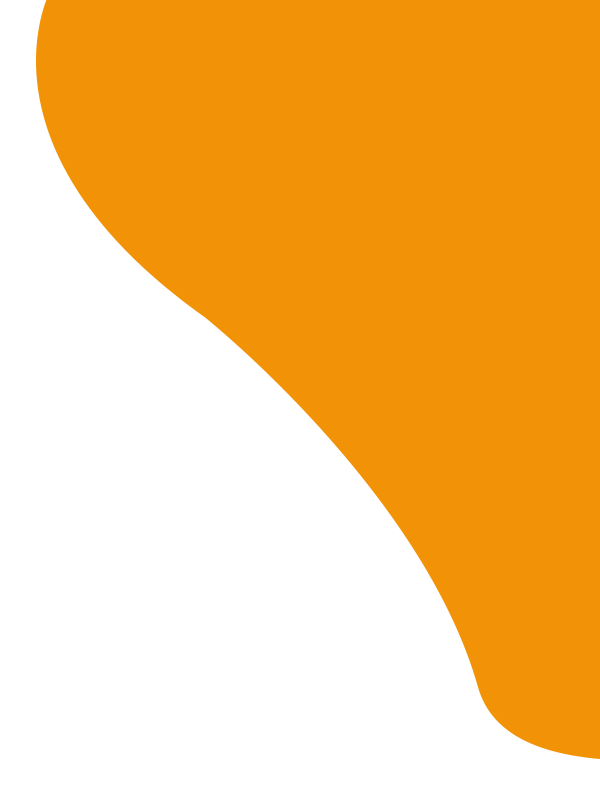
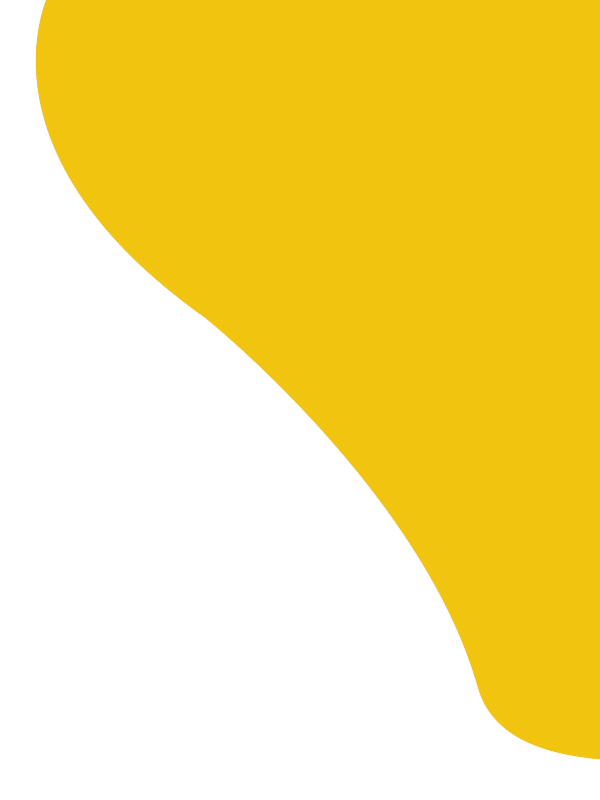
update

diff --git a/daca/fast-food-website-template/assets/css/style.css b/daca/fast-food-website-template/assets/css/style.css
@@ -118,7 +118,7 @@ header {
             border-radius: 1.875rem; }
             @media screen and (max-width: 768px) {
               header .main-nav .my-nav .menu ul li:nth-child(7) {
-                background-color: #ff9106;
+                background-color: #f1c40f;
                 border-radius: 1.25rem; } }
           @media screen and (max-width: 767.98px) {
             header .main-nav .my-nav .menu ul li {
@@ -137,7 +137,7 @@ header {
   header .sub-main-nav .my-nav .menu ul li:last-child a {
     color: #483f3f; }
   header .sub-main-nav .my-nav .menu ul li a {
-    color: #ff9106; }
+    color: #f1c40f; }
   header .menu-toggle {
     height: 40px;
     width: 40px;
@@ -148,7 +148,7 @@ header {
     position: absolute;
     right: 10px;
     top: 20px;
-    color: #ff9106;
+    color: #f1c40f;
     display: flex;
     align-items: center;
     justify-content: center;
@@ -177,7 +177,7 @@ header {
   position: relative;
   padding: 0; }
   .carousel-indicators .active {
-    background-color: #f29307;
+    background-color: #f1c40f;
   }
   .carousel-indicators li {
     background-color: rgb(255 217 162);
@@ -238,7 +238,7 @@ header {
           display: inline-block;
           width: fit-content;
           padding: .625rem 1.125rem;
-          background: #ff9106;
+          background: #f1c40f;
           border-radius: 1.875rem;
           color: #fff;
           font-size: 1.125rem;
@@ -267,7 +267,7 @@ header {
       margin: 0 auto;
       width: 3.75rem;
       height: 3.75rem;
-      background: #ff9106;
+      background: #f1c40f;
       transition: all ease-in-out .5s;
       border-radius: 3.125rem; }
       .bg-01 .wrapper .content .icon span {
@@ -326,7 +326,7 @@ header {
   margin: 1.25rem 0;
   position: relative; }
   .bg-02 .content span {
-    color: #ff9106;
+    color: #f1c40f;
     font-size: 1rem;
     text-transform: capitalize;
     margin: .3125rem 0;
@@ -351,7 +351,7 @@ header {
       display: inline-block;
       margin: 1.25rem 0;
       position: relative;
-      background: #ff9106;
+      background: #f1c40f;
       padding: .625rem 1.125rem;
       text-align: center;
       font-size: 1rem;
@@ -401,7 +401,7 @@ header {
   position: relative; }
   .bg-03 .heading span {
     display: block;
-    color: #ff9106; }
+    color: #f1c40f; }
   .bg-03 .heading h2 {
     text-transform: capitalize;
     font-size: 1.875rem;
@@ -432,7 +432,7 @@ header {
       .bg-03 .wrapper .content .icons span::before {
         font-size: 3.125rem;
         font-weight: 600;
-        color: #ff9106; }
+        color: #f1c40f; }
     .bg-03 .wrapper .content h3 {
       font-size: 1.25rem;
       color: #483f3f;
@@ -451,7 +451,7 @@ header {
   position: relative; }
   .heading span {
     display: block;
-    color: #ff9106; }
+    color: #f1c40f; }
   .heading h2 {
     text-transform: capitalize;
     font-size: 1.875rem;
@@ -499,7 +499,7 @@ header {
         margin: 0 0 .3125rem 0; }
         .bg-04 .wrapper .tab-content .sentence h3 span {
           font-weight: 600;
-          color: #ff9106; }
+          color: #f1c40f; }
       .bg-04 .wrapper .tab-content .sentence h6 {
         display: inline-block;
         font-size: .9375rem;
@@ -518,7 +518,7 @@ header {
       .bg-04 .wrapper .tab-content .rate-box ol li {
         display: inline-block;
         margin: .3125rem;
-        color: #ff9106; }
+        color: #f1c40f; }
       .bg-04 .wrapper .tab-content .rate-box .plus {
         position: relative;
         display: block; }
@@ -528,7 +528,7 @@ header {
           display: flex;
           align-items: center;
           justify-content: center;
-          background: #ff9106;
+          background: #f1c40f;
           color: #fff;
           cursor: pointer;
           border-top-left-radius: 1.25rem; }
@@ -662,7 +662,7 @@ header {
           transition: 0.6s;
           height: 2.5rem;
           width: 2.5rem;
-          background: #ff9106;
+          background: #f1c40f;
           line-height: 2.5rem;
           text-align: center;
           padding: 0rem;
@@ -670,7 +670,7 @@ header {
           font-size: 1rem;
           margin-right: .3125rem; }
           .bg-05 .main-team-card .team-setup .team-items .team-user-social ol li:hover {
-            color: #ff9106;
+            color: #f1c40f;
             transform: translateX(-0.3125rem); }
             .bg-05 .main-team-card .team-setup .team-items .team-user-social ol li:hover i {
               color: #fff; }
@@ -712,7 +712,7 @@ header {
         margin: 5px 0px; }
         .bg-06 .blog-main-card .blog-sub .blog-content-section .blog-admin ol li {
           display: inline-block;
-          color: #ff9106;
+          color: #f1c40f;
           font-size: 15px;
           margin: 0 5px 0 0; }
           .bg-06 .blog-main-card .blog-sub .blog-content-section .blog-admin ol li i {
@@ -784,7 +784,7 @@ header {
         border-radius: 0;
         margin-bottom: .625rem; }
       .contact-wrapper .wrapper form .form-group a {
-        background: #ff9106;
+        background: #f1c40f;
         display: block;
         padding: .625rem;
         text-align: center;
@@ -815,7 +815,7 @@ footer {
     color: #84878a;
     text-align: center; }
     footer .copy-right p a {
-      color: #ff9106;
+      color: #f1c40f;
       padding-left: 10px;
       font-weight: bold; }
   footer .footer-content {
@@ -833,7 +833,7 @@ footer {
       display: inline-block;
       height: 2.5rem;
       width: 2.5rem;
-      background: #ff9106;
+      background: #f1c40f;
       color: #fff;
       line-height: 2.5rem;
       text-align: center;
@@ -847,7 +847,7 @@ footer {
         font-size: 16px; }
         footer .footer-content ol li a i {
           padding-right: 10px;
-          color: #ff9106; }
+          color: #f1c40f; }
           footer .footer-content ol li a i::before {
             font-size: .9375rem; }
     footer .footer-content h2 {
@@ -868,7 +868,7 @@ footer {
         width: 40px;
         line-height: 40px;
         color: #fff;
-        background: #ff9106;
+        background: #f1c40f;
         text-align: center;
         top: 0;
         right: 0; }
@@ -906,7 +906,7 @@ footer {
           .bg-0-b .main-card-contact .sup-card-contact .contact-title h2::before {
             position: absolute;
             content: "";
-            background: #ff9106;
+            background: #f1c40f;
             width: 100%;
             height: 3px;
             bottom: 0; }
@@ -917,7 +917,7 @@ footer {
           font-size: 16px;
           font-weight: 600; }
           .bg-0-b .main-card-contact .sup-card-contact .contact-title ol li i {
-            color: #ff9106;
+            color: #f1c40f;
             padding-right: 15px; }
       .bg-0-b .main-card-contact .sup-card-contact .head-content {
         position: relative;
@@ -932,7 +932,7 @@ footer {
           .bg-0-b .main-card-contact .sup-card-contact .head-content h2::before {
             position: absolute;
             content: "";
-            background: #ff9106;
+            background: #f1c40f;
             width: 100%;
             height: 3px;
             bottom: 0; }
@@ -971,7 +971,7 @@ footer {
               top: 0px;
               height: 45px;
               width: 45px;
-              background: #ff9106;
+              background: #f1c40f;
               text-align: center;
               line-height: 45px;
               color: #fff;
@@ -984,7 +984,7 @@ footer {
                 position: relative;
                 top: 4px;
                 left: 5px;
-                color: #ff9106; }
+                color: #f1c40f; }
           .bg-0-b .main-card-contact .sup-card-contact-0a .dived .form-group .form-control {
             padding: 10px 15px;
             margin: 30px 0px;
@@ -993,7 +993,7 @@ footer {
 
 .abt-01 {
   padding: 3.125rem 0;
-  background: #ff9106;
+  background: #f1c40f;
   position: relative;
   overflow: hidden;
   z-index: 9; }

diff --git a/daca/fast-food-website-template/index.html b/daca/fast-food-website-template/index.html
@@ -28,7 +28,7 @@
                                 <ul>
                                     <li><a href="#about-us">Sobre Nós</a></li>
                                     <li><a href="#our-menu">Cardápio</a></li>
-                                    <li><a href="#">Peça Já</a></li>
+                                    <li><a href="https://api.whatsapp.com/send?phone=351934178162&text=%20Ol%C3%A1%20Daca%20Food!%20Cliquei%20no%20link%20do%20site." target="_blank">Peça Já</a></li>
                                 </ul>
                             </div>
                         </div>
@@ -66,7 +66,7 @@
                                                     incidunt iste, architecto voluptate amet veniam 
                                                     odio, reiciendis modi</h5>
                                                     <ol>
-                                                        <li><a href="#">Pedir Agora<span class="flaticon-right-arrow"></span></a></li>
+                                                        <li><a href="https://api.whatsapp.com/send?phone=351934178162&text=%20Ol%C3%A1%20Daca%20Food!%20Cliquei%20no%20link%20do%20site." target="_blank">Pedir Agora<span class="flaticon-right-arrow"></span></a></li>
                                                     </ol>
                                                 </div>
                                             </div>
@@ -92,7 +92,7 @@
                                                     incidunt iste, architecto voluptate amet veniam 
                                                     odio, reiciendis modi</h5>
                                                     <ol>
-                                                        <li><a href="#">Pedir Agora<span class="flaticon-right-arrow"></span></a></li>
+                                                        <li><a href="https://api.whatsapp.com/send?phone=351934178162&text=%20Ol%C3%A1%20Daca%20Food!%20Cliquei%20no%20link%20do%20site." target="_blank">Pedir Agora<span class="flaticon-right-arrow"></span></a></li>
                                                     </ol>
                                                 </div>
                                             </div>
@@ -118,7 +118,7 @@
                                                     incidunt iste, architecto voluptate amet veniam 
                                                     odio, reiciendis modi</h5>
                                                     <ol>
-                                                        <li><a href="#">Pedir Agora<span class="flaticon-right-arrow"></span></a></li>
+                                                        <li><a href="https://api.whatsapp.com/send?phone=351934178162&text=%20Ol%C3%A1%20Daca%20Food!%20Cliquei%20no%20link%20do%20site." target="_blank">Pedir Agora<span class="flaticon-right-arrow"></span></a></li>
                                                     </ol>
                                                 </div>
                                             </div>
@@ -181,7 +181,7 @@
                                         <span class="flaticon-call"></span>
                                     </div>
                                     <div class="sentence">
-                                    <strong>419-704-4407</strong>
+                                    <strong>+351 934 178 162</strong>
                                     <p>Pedido por WhatsApp</p>
                                     </div>
                                 </div>
